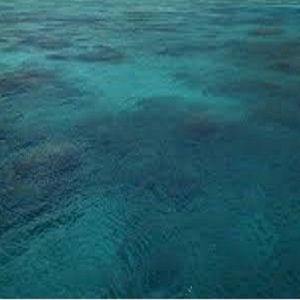
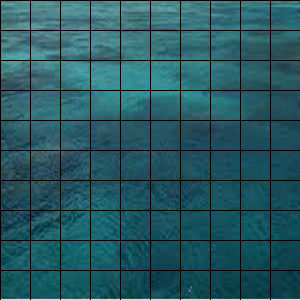
More layout and background attempts

Changed region(s): [[0.0, 0.0, 1.0, 1.0]]

diff --git a/BattleShip/src/MyDropTargetListener.java b/BattleShip/src/MyDropTargetListener.java
@@ -52,9 +52,11 @@ class MyDropTargetListener extends DropTargetAdapter {
 	                System.out.println("String is " + draggedShip);
 	                if (ico != null) {
 	                	
+	                	
 	                	getShip();
 	                	getSquareDropped(dropPoint);
 	                	JLabel shipDragged = new JLabel(ico);
+	                	
 	                	shipDragged.setBounds(dropPoint.x, dropPoint.y, shipLength, shipWidth);
 	                    p.add(shipDragged);
 	                    p.revalidate();
@@ -73,17 +75,12 @@ class MyDropTargetListener extends DropTargetAdapter {
 	        }
 	        //TEST CODE*******************************************************************************************************************************
 	        System.out.println("Drop point is " + dropPoint);
-          
-	        
-	       
-	        
-	        
-	        
+       
 	    }
 	    
 	    
 	    private void getShip(){
-	    	//determines panel boundry for specific ships
+	    	//determines panel boundary for specific ships
 	    	
 	    	//This value changes depending on which computer I am on...
 	    	 if( draggedShip.equals("file:/C:/Users/Rob/git/Battleship/BattleShip/bin/Battleship.png")){
@@ -91,6 +88,8 @@ class MyDropTargetListener extends DropTargetAdapter {
 		        	maxY =290;
 		        	minY = 20;
 		        	minX = 8;
+		        	shipLength = 120;
+		        	shipWidth = 20;
 
 		        }
 	    	 else if( draggedShip.equals("file:/C:/Users/Rob/git/Battleship/BattleShip/bin/carrier.jpg")){
@@ -98,24 +97,33 @@ class MyDropTargetListener extends DropTargetAdapter {
 		        	maxY =290;
 		        	minY = 20;
 		        	minX = 8;
+		        	shipLength = 150;
+		        	shipWidth = 20;
+		        	
 		        }
 	    	 else if( draggedShip.equals("file:/C:/Users/Rob/git/Battleship/BattleShip/bin/Cruiser.jpg")){
 		        	maxX =250;
 		        	maxY =290;
 		        	minY = 20;
 		        	minX = 8;
+		        	shipLength = 120;
+		        	shipWidth = 20;
 		        }
 	    	 else if( draggedShip.equals("file:/C:/Users/Rob/git/Battleship/BattleShip/bin/Destroyer.jpg")){
 		        	maxX =250;
 		        	maxY =290;
 		        	minY = 20;
 		        	minX = 8;
+		        	shipLength = 60;
+		        	shipWidth = 20;
 		        }
 	    	 else if( draggedShip.equals("file:/C:/Users/Rob/git/Battleship/BattleShip/bin/Submarine.jpg")){
 		        	maxX =250;
 		        	maxY =290;
 		        	minY = 20;
 		        	minX = 8;
+		        	shipLength = 90;
+		        	shipWidth = 20;
 		        }
 	    	 else
 	    		 System.out.println("The ship is not recognized and will not move correctly");
@@ -164,6 +172,7 @@ class MyDropTargetListener extends DropTargetAdapter {
 			point.setLocation(x, y);
 			grid = new Point(x2,y2);
 			System.out.println("Grid is "+ grid);
+			System.out.println("Ship Length = "+shipLength+" shipWidth = " + shipWidth);
 			 
 			
 		}

diff --git a/BattleShip/src/Battleship.java b/BattleShip/src/Battleship.java
@@ -1,4 +1,7 @@
+import java.awt.Graphics;
 import java.awt.GridLayout;
+import java.awt.Image;
+import java.awt.Toolkit;
 import java.awt.dnd.DnDConstants;
 import java.awt.dnd.DragSource;
 import java.awt.event.ActionEvent;
@@ -10,6 +13,7 @@ import java.io.ObjectOutputStream;
 import java.net.InetAddress;
 import java.net.ServerSocket;
 import java.net.Socket;
+
 import javax.swing.BorderFactory;
 import javax.swing.GroupLayout;
 import javax.swing.JButton;
@@ -19,7 +23,6 @@ import javax.swing.JPanel;
 import javax.swing.JScrollPane;
 import javax.swing.JTextArea;
 import javax.swing.JTextField;
-import javax.swing.LayoutStyle;
 import javax.swing.SwingUtilities;
 import javax.swing.border.TitledBorder;
 
@@ -118,11 +121,21 @@ public class Battleship extends JFrame {
         setResizable(false);
         
         //Creates player panel and enemy panel with listeners
-        playerPanel = new JPanel();   
-    	playerGrid = new PlayerGrid(playerPanel);
+        playerPanel = new JPanel(){
+        	Image image = Toolkit.getDefaultToolkit().getImage("oceanGrid.png");
+            public void paintComponent( Graphics g )
+            {
+                 super.paintComponent(g);
+                 g.drawImage( image, 0, 0, this );
+            }	
+       
+        	
+        	
+        };   
+    	playerGrid = new PlayerGrid();
     	enemyPanel = new JPanel();
     	enemyGrid = new EnemyGrid(enemyPanel);   
-              
+    	new MyDropTargetListener(playerPanel);      
         messagePanel.setBorder(BorderFactory.createTitledBorder(null, "Message Center", TitledBorder.CENTER, TitledBorder.DEFAULT_POSITION));
         messageLabel1.setText("Message: ");
 

diff --git a/BattleShip/src/PlayerGrid.java b/BattleShip/src/PlayerGrid.java
@@ -9,7 +9,7 @@ import javax.swing.JPanel;
 public class PlayerGrid {
 	private Square[][] playerGrid;
 	
-	public PlayerGrid(JPanel playerPanel){
+	public PlayerGrid(){
 		
 		
 		playerGrid = new Square[10][10]; 
@@ -17,7 +17,7 @@ public class PlayerGrid {
 		       for ( int col = 0; col < playerGrid[ r ].length; col++ ) 
 		       {		          	    	
 		        playerGrid[ r ][ col ] = new Square( " ",r, col);
-		        new MyDropTargetListener(playerPanel);
+		        
 		       }
 		} 
 	}
